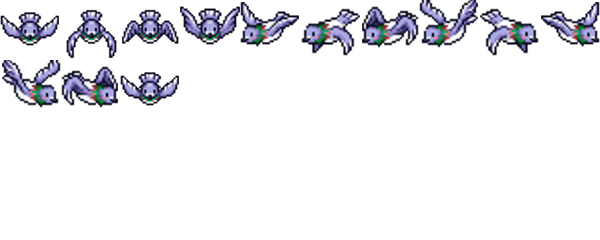
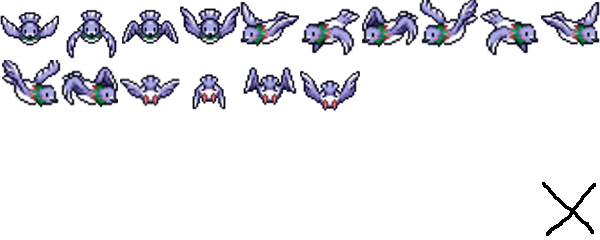
pequena correção.

Changed region(s): [[0.18, 0.2625, 0.6, 0.4667], [0.9, 0.7583, 1.0, 0.9625], [0.9, 0.9333, 0.93, 0.9917]]

diff --git a/js/Engine.js b/js/Engine.js
@@ -98,8 +98,8 @@ function handleClick(event) {
     bird = new Bird();
     bird.x = canvas.width / 2;
     bird.y = canvas.height / 2;
-    
-    
+
+
     //TODO corrigir codigos comentados
     //TODO implementar método de colisão
     //TODO talvez possamos criar ruas e prédios como objetos 'solid' isso resolveria o problema de fazer as pessoas andarem somente na cal�ada e nas faixas
@@ -107,28 +107,28 @@ function handleClick(event) {
     map = new Map();
     map.x = -200;
     map.y = -150;
-    
+
     bird.map = map;
 
     //creating persons
     persons = new Array();
-    
-    for(var i = 0; i<3; i++){
-    	person = new Person();
-		person.x = (canvas.width /2) + (i*160);
-		person.y = canvas.height /2;
-		
-    	persons.push(person);
-    	
-    	//Adicionar person ao container ao inv�s de map
-    	map.addChild(person);
+
+    for (var i = 0; i < 3; i++) {
+        person = new Person();
+        person.x = (canvas.width / 2) + (i * 160);
+        person.y = canvas.height / 2;
+
+        persons.push(person);
+
+        //Adicionar person ao container ao inv�s de map
+        map.addChild(person);
     }
-    
+
     //criar linha como algo abaixo
     //Trazer o new map l� de cima
     //map.addChild(container)
 
-    
+
     stage.clear();
 
     velocityField = new createjs.Text("X:0 Y:0", "bold 14px Arial", "#000");
@@ -138,7 +138,7 @@ function handleClick(event) {
 
     stage.addChild(map);
     stage.addChild(bird);
-   
+
     stage.addChild(velocityField);
     stage.update();
 
@@ -156,20 +156,10 @@ function tick() {
     stage.update();
 }
 
-function movePersons(){
-	
-	var debug = "Persons \n";
-	
-	for (var p in persons){
-
-		persons[p].tick();
-		
-		debug = debug + " Count : " + persons[p].countTimeForWalk + " Time : " + persons[p].randomTimeForWalk + " Speed : " + persons[p].randomSpeedForWalk + " Direction : " + persons[p].randomDirection + "\n";
-	}
-	
-	 velocityField.text = debug;
-	
-	
+function movePersons() {
+    for (var p in persons) {
+        persons[p].tick();
+    }
 }
 
 function checkBirdMovements() {
@@ -244,9 +234,9 @@ function checkBirdMovements() {
 
     map.y = map.y + map.velocityY;
     map.x = map.x + map.velocityX;
-    
+
+    velocityField.text = "X:" + map.velocityX + "  Y:" + map.velocityY;
     bird.tick();
-//    velocityField.text = "X:" + map.velocityX + "  Y:" + map.velocityY;
 
 }
 
@@ -255,7 +245,7 @@ function handleKeyDown(e) {
     //cross browser issues exist
     if (!e) {
 //        var e = window.event;
-    	e = window.event;
+        e = window.event;
     }
 
     switch (e.keyCode) {
@@ -292,7 +282,7 @@ function handleKeyUp(e) {
     //cross browser issues exist
     if (!e) {
 //        var e = window.event;
-    	e = window.event;
+        e = window.event;
     }
 
     switch (e.keyCode) {
@@ -327,11 +317,11 @@ function handleKeyUp(e) {
 
         case KEYCODE_Q:
             if (bird.isFlying &&
-                    ( (map.velocityX > 0 && map.velocityX <= map.MINIMUN_VELOCITY)
-                            || (map.velocityX <  0 && (map.velocityX * -1) <= map.MINIMUN_VELOCITY)) &&
+                    ((map.velocityX > 0 && map.velocityX <= map.MINIMUN_VELOCITY)
+                            || (map.velocityX < 0 && (map.velocityX * -1) <= map.MINIMUN_VELOCITY)) &&
                     ((map.velocityY > 0 && map.velocityY <= map.MINIMUN_VELOCITY) ||
                             (map.velocityY < 0 && (map.velocityY * -1) <= map.MINIMUN_VELOCITY))
-                ) {
+                    ) {
                 bird.isFlying = false;
                 map.velocityX = 0;
                 map.velocityY = 0;

diff --git a/js/Bird.js b/js/Bird.js
@@ -46,8 +46,10 @@
                 down_l: [4, 7, "down_l", 4],
                 down_r: [8, 11, "down_r", 4],
                 up: [12, 15, "up", 4],
-                up_l: [39, 39, "up_l", 4],
-                up_r: [39, 39, "up_r", 4]
+                up_l: [4, 7, "up_l", 4],
+                up_r: [8, 11, "up_r", 4],
+                left: [4, 7, "left", 4],
+                right: [8, 11, "right", 4]
             }
         });
 
@@ -73,6 +75,10 @@
                 newAnimation = "down_r";
             } else if (map.velocityY < map.velocityX) {
                 newAnimation = "down";
+            } else if(map.velocityX < 0) {
+                newAnimation = "right";
+            } else {
+                newAnimation = "left";
             }
         } else if (map.velocityY > 0) {
 
@@ -83,6 +89,10 @@
                 newAnimation = "up_r";
             } else if (map.velocityY > map.velocityX) {
                 newAnimation = "up";
+            } else if(map.velocityX < 0) {
+                newAnimation = "right";
+            } else {
+                newAnimation = "left";
             }
         } else {
             newAnimation = "down";
@@ -90,7 +100,9 @@
 
         if (this.currentAnimation !== newAnimation) {
             this.gotoAndPlay(newAnimation)
+            
         }
+        velocityField.text = velocityField.text + "\nMoving: "+newAnimation;
     };
 
     window.Bird = Bird;
